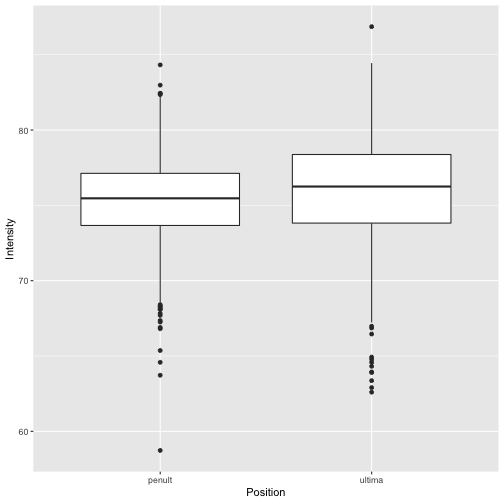
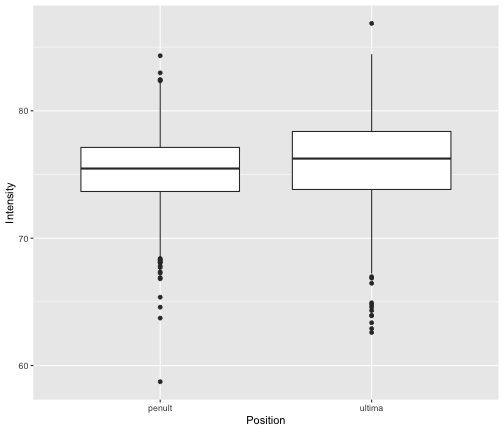
Finished dynamic documents slides

diff --git a/docs/dynamic_docs/dynamic_docs.html b/docs/dynamic_docs/dynamic_docs.html
@@ -14,10 +14,16 @@ class: center, middle, inverse, title-slide
 # Dynamic Documents in RStudio
 ## LSA 2019
 ### Bradley McDonnell<br/>University of Hawai‘i at Mānoa
-### 2019/01/03 (updated: 2018-12-31)
+### 2019/01/03 (updated: 2019-01-01)
 
 ---
 
+
+&lt;style&gt;
+code.md{
+  font-size: 10pt;
+}
+&lt;/style&gt;
 
 
 
@@ -45,14 +51,19 @@ class: center, middle
 
 
 .pull-left[
-- It's simple. 
+- It's simple
 - It's portable
-- 
+- Produces reproducible documents
+- Outputs to various static and dynamic formats
+- ...
 ]
 
 .pull-right[
 - Few native formatting options
   - e.g., interlinear glossed examples not straightforward
+- Yet another flavor of Markdown
+- Not widely used in linguistics
+- ...
 ]
 
 ---
@@ -62,11 +73,9 @@ class: center, middle
 
 Dynamic documents are composed of: 
 
-1. YAML header: Contains metadata for the document
+1. YAML header
 2. R code chunks
 3. Text
-
-Let's break down the YAML header and R code chunks...
 
 ---
 
@@ -98,7 +107,7 @@ output: html_document
 # YAML header
 
 The YAML header can be quite complicated.
-- The `output` can contain a number of options (which is quite helpful!). 
+- The `output` can contain a number of options (which can be quite helpful!). 
 
 
 
@@ -107,7 +116,7 @@ The YAML header can be quite complicated.
 title: "Dynamic Documents in RStudio"
 subtitle: "LSA 2019"
 author: "Bradley McDonnell&lt;br/&gt;University of Hawai‘i at Mānoa"
-date: "2019/01/03 (updated: 2018-12-31)"
+date: "2019/01/03 (updated: 2019-01-01)"
 output:
   xaringan::moon_reader:
     lib_dir: libs
@@ -122,13 +131,12 @@ output:
 
 # Code chunks
 
-- Code chunks are where we place the R code that we want to execute.
+- Code chunks contain the R code that we want to execute.
 
-
-````markdown
+````md
 The plot below shows a slight increase in intensity in the final syllable of the word. 
 
-```{r boxplot, echo=TRUE, eval=require('tidyverse'), comment="#", message=FALSE}
+```{r boxplot, echo=TRUE, comment="#", message=FALSE, fig.height=6}
 
 library(tidyverse)
 
@@ -148,6 +156,7 @@ dur + geom_boxplot()
 ```
 ````
 
+
 ---
 
 # Code chunks
@@ -158,9 +167,48 @@ The plot below shows a slight increase in intensity in the final syllable of the
 
 ---
 
+# Anatomy of a code chunk
+
+- Code chunks are marked by ` ``` ` at the start and end of the chunk.
+- Followed by the specification of the programming language, 
+  - `r` or `{r}` in our case
+  - Optionally followed by a name for the code chunk, and
+  - many options for how the code chunk is treated. 
+- Finally, the code itself!
+
+
+````markdown
+```{r boxplot, echo=FALSE, comment="#", message=FALSE, fig.height=6}
+
+# A simple boxplot of intensity
+dur &lt;- ggplot(pse_stress, aes(Position, Intensity))
+dur + geom_boxplot()
+
+```
+````
+
+**Note it's also possible to set Global Options that apply to all code chunks.**
+
+````markdown
+```{r setup, include=FALSE}
+knitr::opts_chunk$set(echo=FALSE)
+```
+````
+
+---
+
+# Text
+
+- The text would ideally be R Markdown...
+  - but it's possible to also use LaTeX
+- Or it's possible to mix in HTML formatting
+  - and/or LaTeX code in with R Markdown
+
+---
+
 class: center, middle
 
-# A basic example
+# Questions?
 
 ???
 
